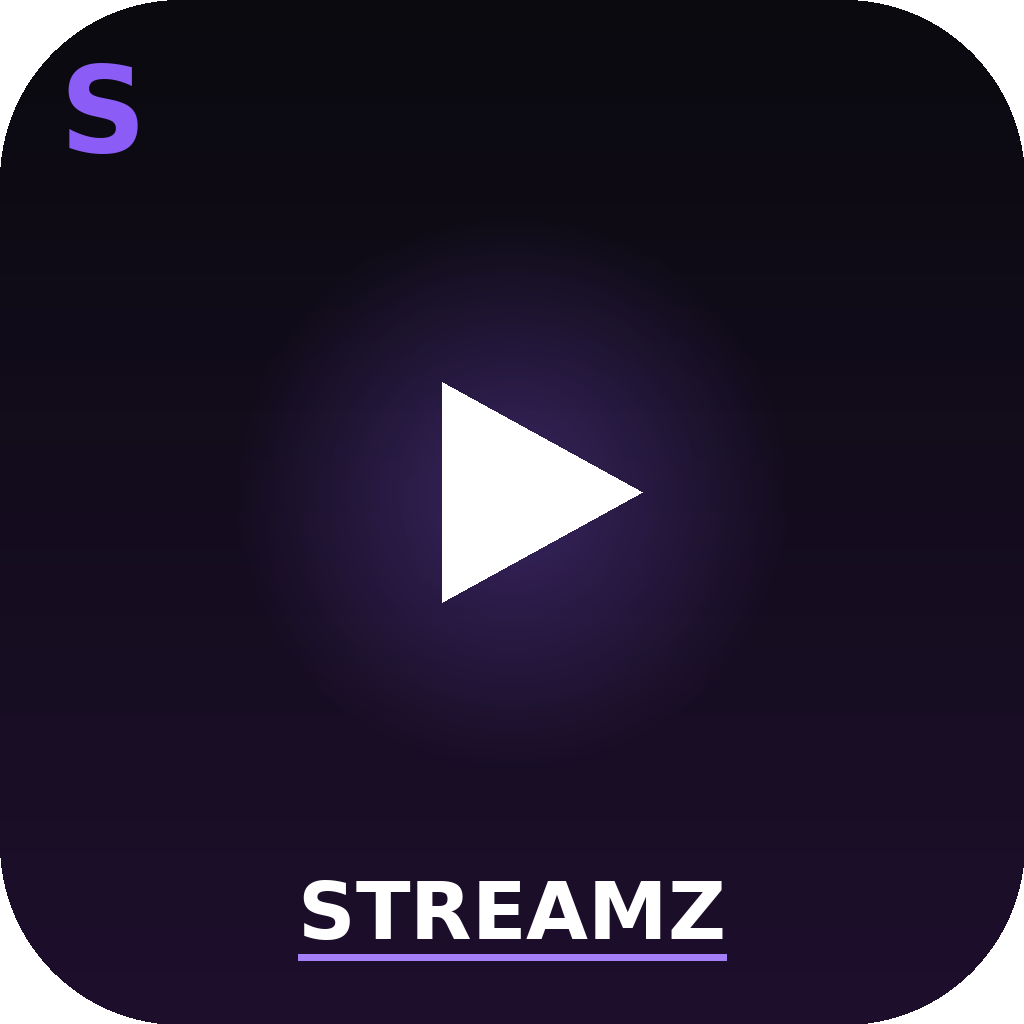
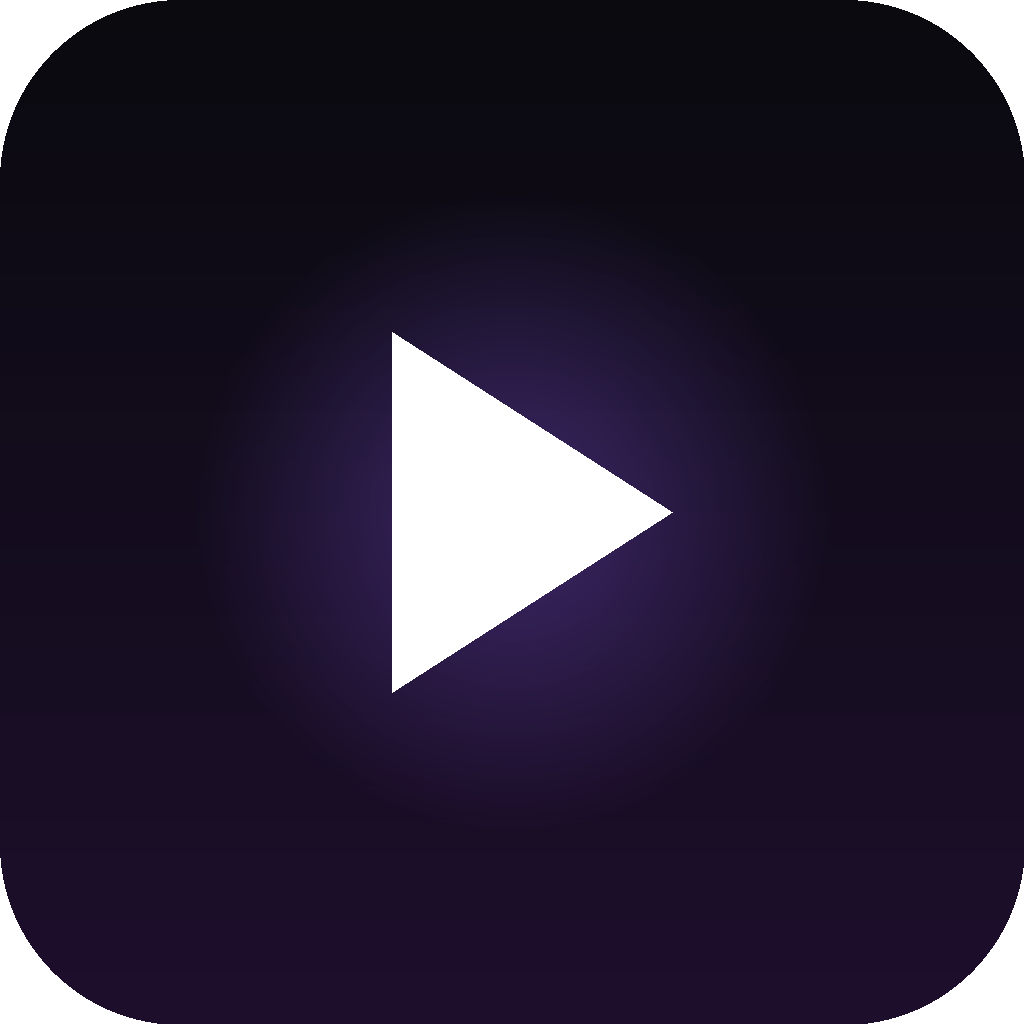
fix main

diff --git a/App.js b/App.js
@@ -1,15 +1,43 @@
-import React from "react";
-import { View, Text, StyleSheet } from "react-native";
+import React, { useCallback, useEffect, useState } from "react";
+import { View, StyleSheet, LogBox } from "react-native";
+import { SafeAreaProvider } from "react-native-safe-area-context";
+import ErrorBoundary from "./src/components/ErrorBoundary";
+import Navigation from "./src/navigation";
+
+let SplashScreen = null;
+try {
+  SplashScreen = require("expo-splash-screen");
+  SplashScreen.preventAutoHideAsync().catch(() => {});
+} catch (e) {}
+
+LogBox.ignoreLogs(["Non-serializable values"]);
 
 export default function App() {
+  const [ready, setReady] = useState(false);
+
+  useEffect(() => {
+    setTimeout(() => setReady(true), 800);
+  }, []);
+
+  const onLayout = useCallback(() => {
+    if (ready && SplashScreen) {
+      SplashScreen.hideAsync().catch(() => {});
+    }
+  }, [ready]);
+
+  if (!ready) return null;
+
   return (
-    <View style={styles.root}>
-      <Text style={styles.text}>SmjStreamz Loading...</Text>
-    </View>
+    <SafeAreaProvider>
+      <ErrorBoundary>
+        <View style={styles.root} onLayout={onLayout}>
+          <Navigation />
+        </View>
+      </ErrorBoundary>
+    </SafeAreaProvider>
   );
 }
 
 const styles = StyleSheet.create({
-  root: { flex: 1, backgroundColor: "#0a0a0f", justifyContent: "center", alignItems: "center" },
-  text: { color: "#fff", fontSize: 24 },
+  root: { flex: 1, backgroundColor: "#0a0a0f" },
 });